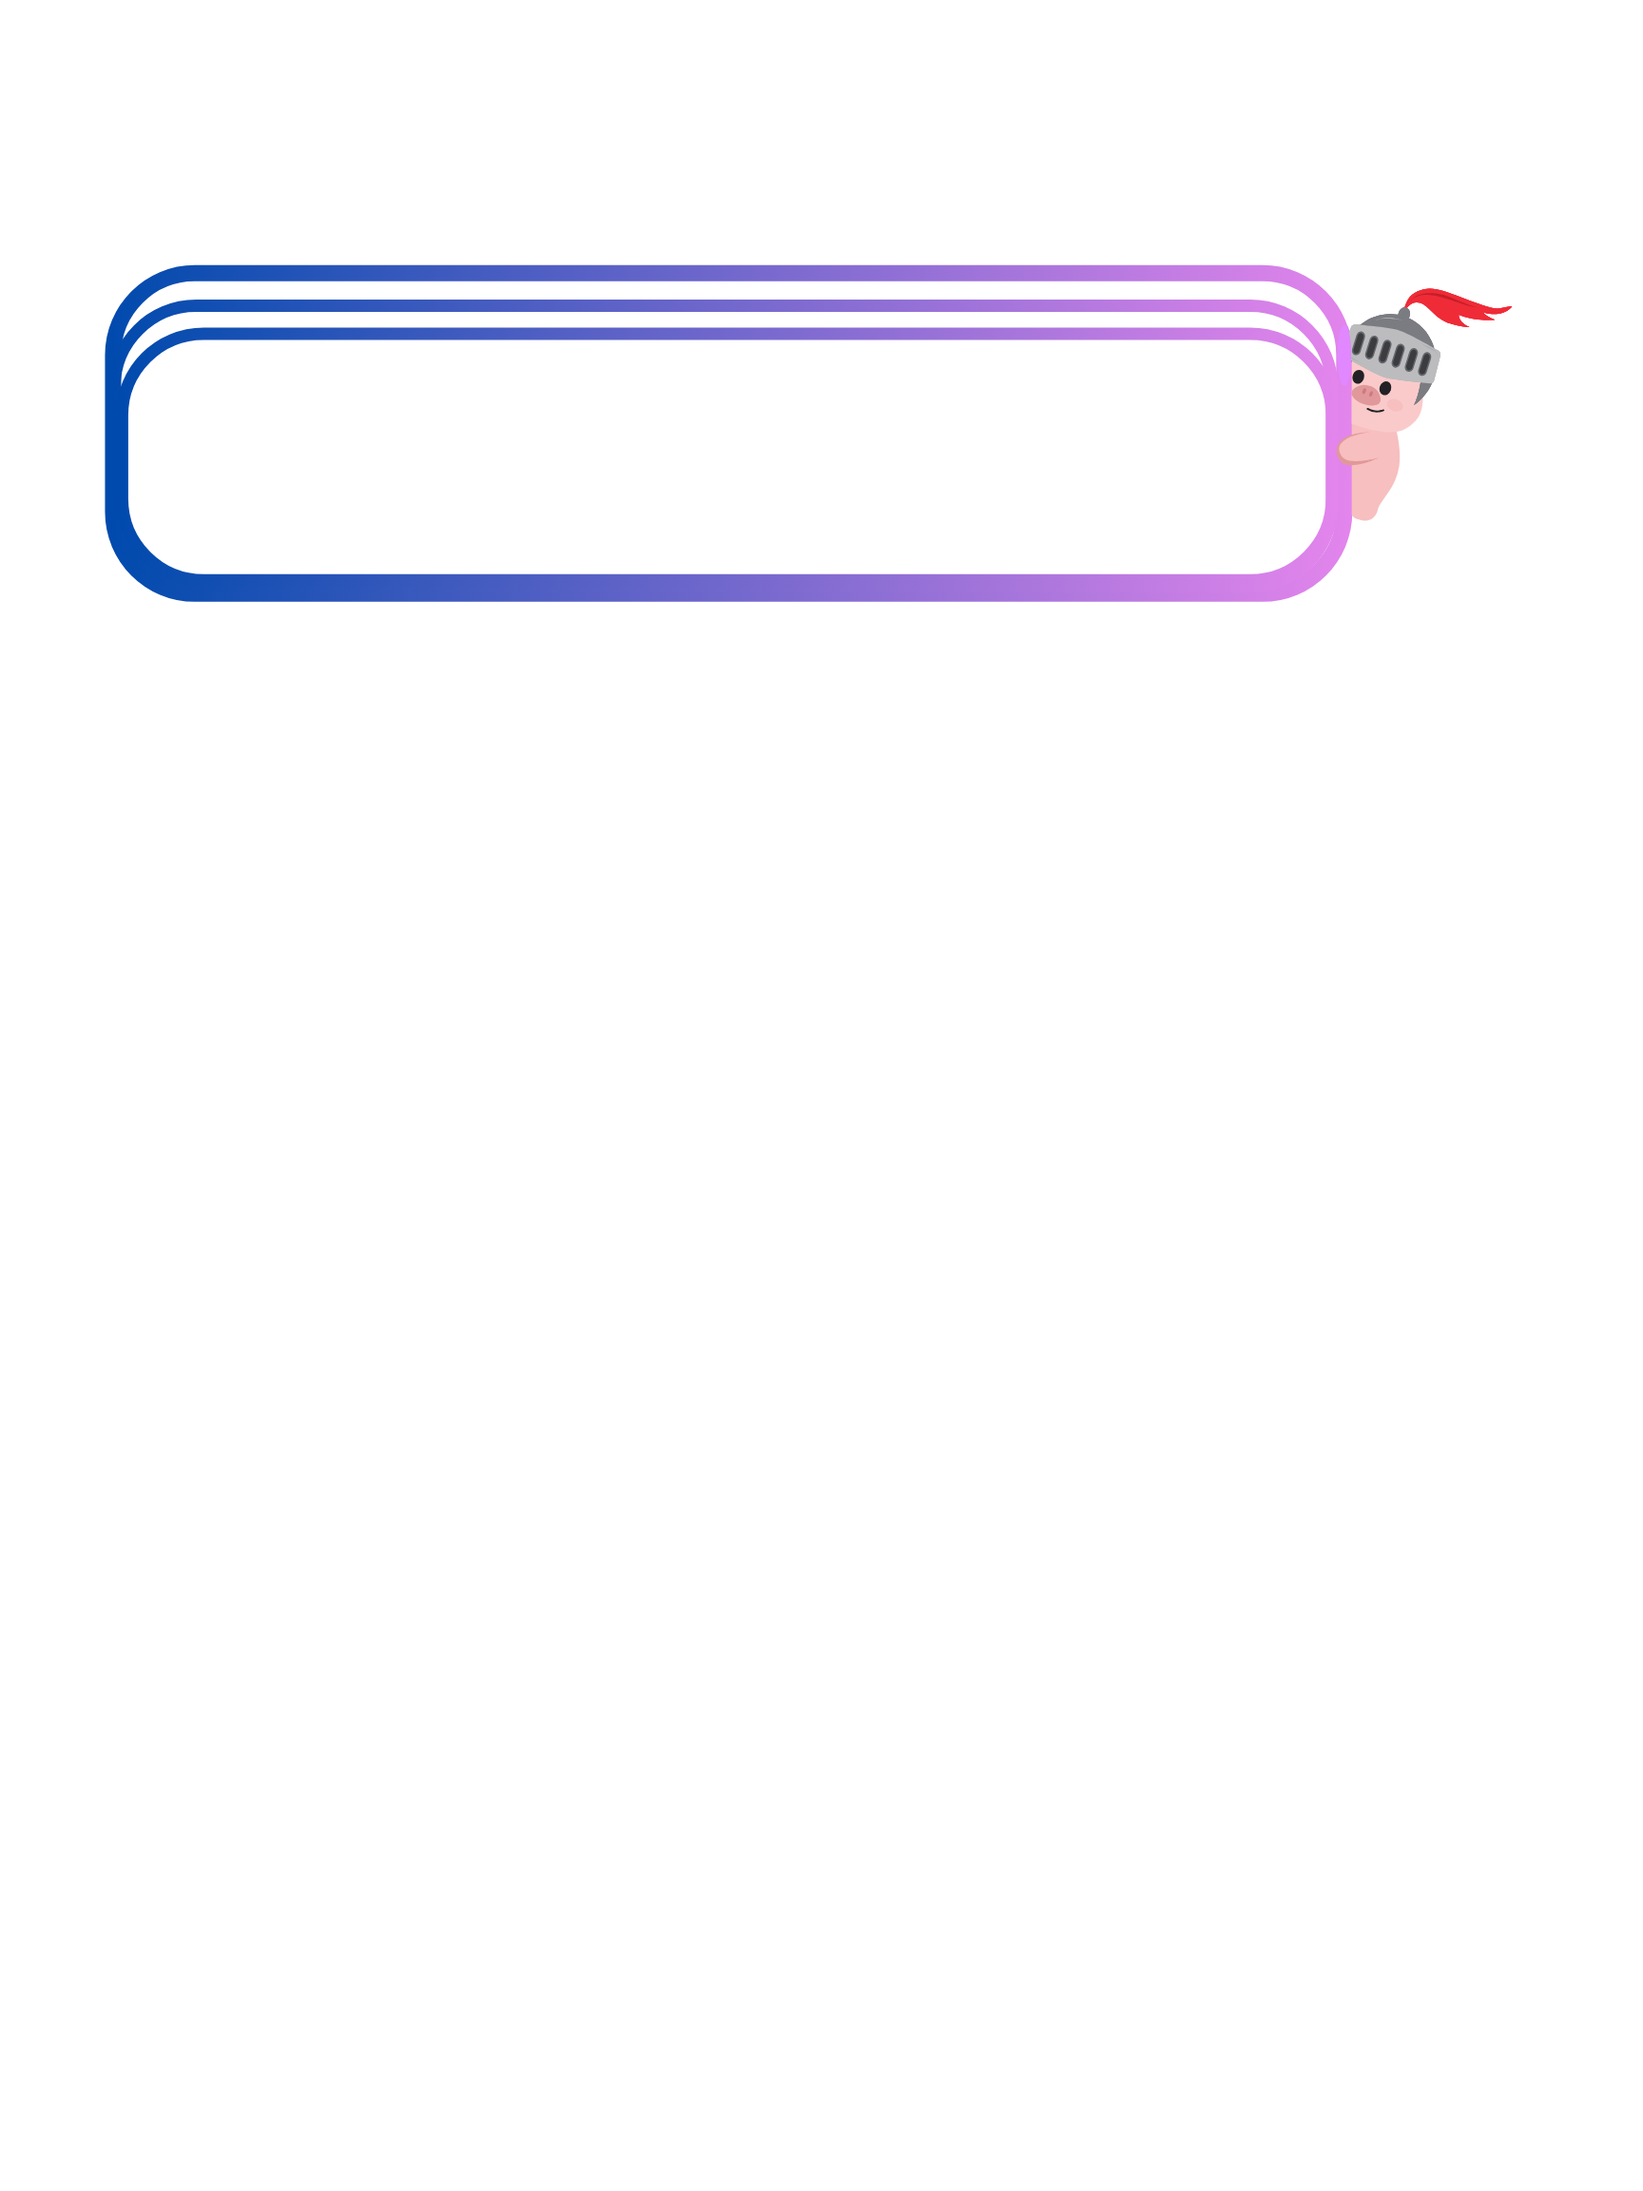
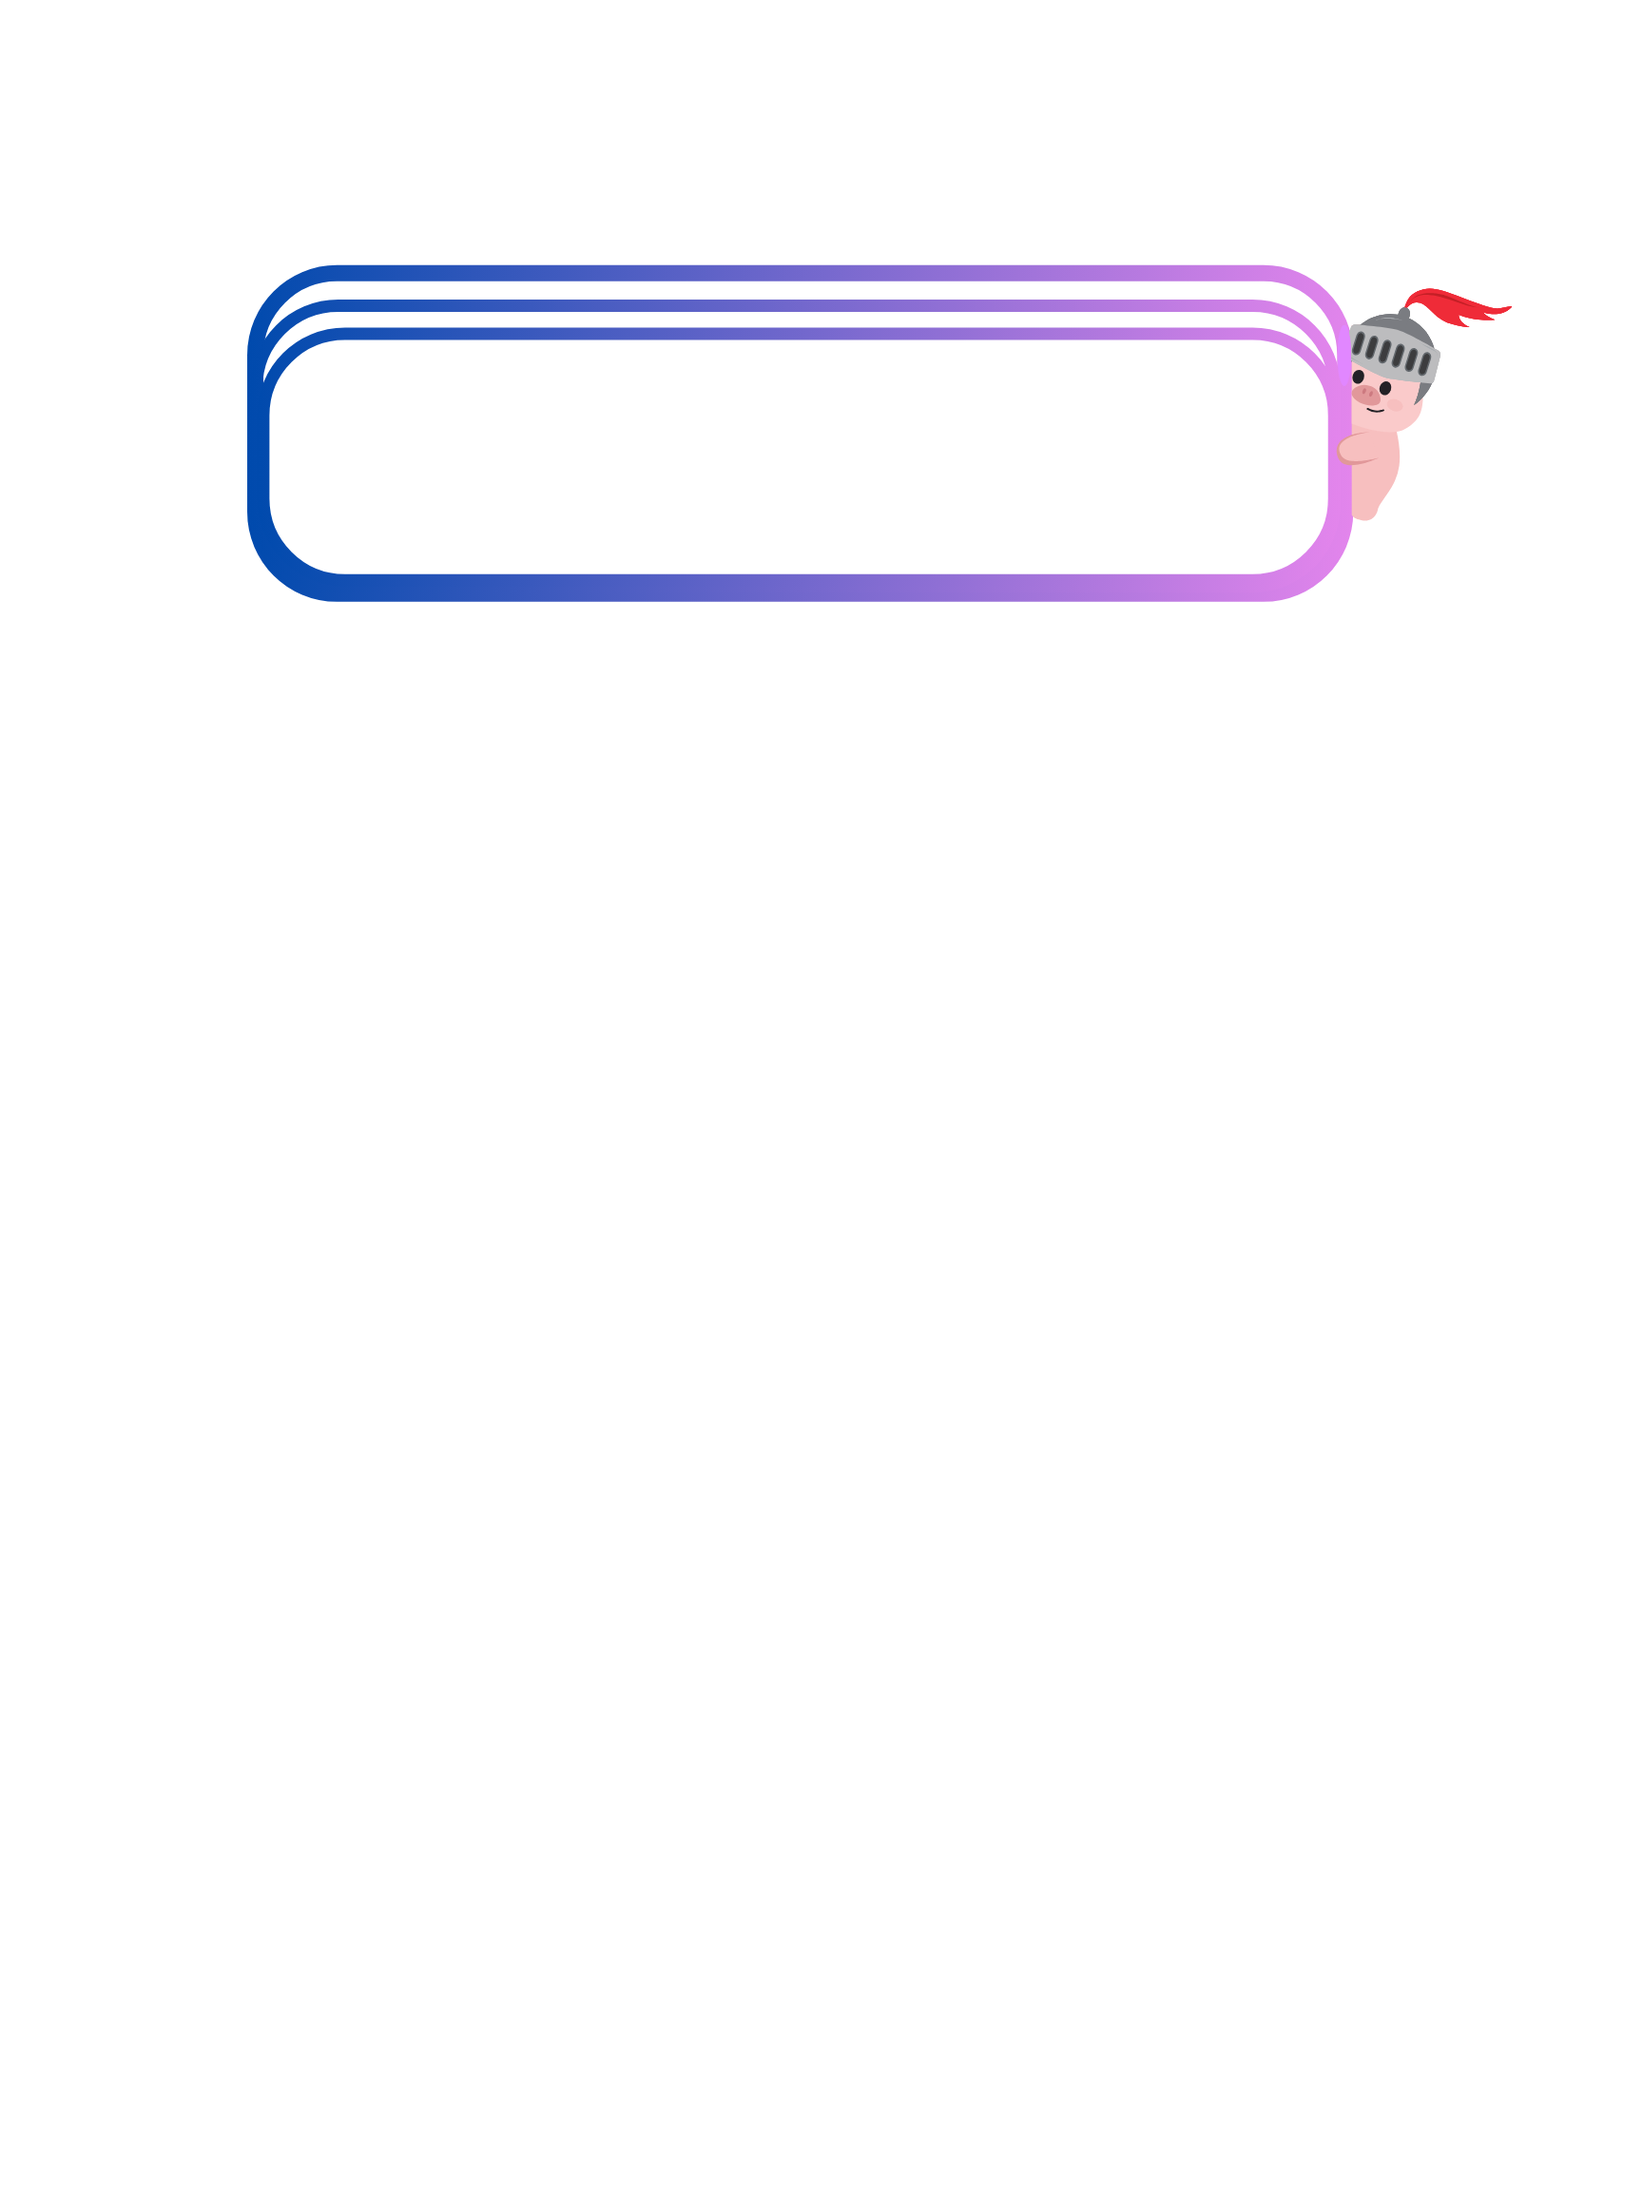
ui finalization

Changed region(s): [[0.0625, 0.0938, 0.2188, 0.2812], [0.7812, 0.125, 0.8125, 0.1875]]

diff --git a/src/components/countdown.js b/src/components/countdown.js
@@ -1,68 +1,51 @@
 import React, { useState, useEffect } from 'react';
-import './countdown.css'
-
+import './countdown.css';
 
 export function Countdown({ targetDate }) {
-  const [timeLeft, setTimeLeft] = useState(CalculateTimeLeft());
+  const [timeLeft, setTimeLeft] = useState(CalculateTimeLeft(targetDate));
 
-  function CalculateTimeLeft(td){
-    let difference = Date.parse(td) - Date.now()
-    let time
-    if (difference > 0){
-      difference /= 1000; //milliseconds to seconds
+  function CalculateTimeLeft(td) {
+    const difference = new Date(td) - new Date();
+    if (difference <= 0) return { days: 0, hours: 0, minutes: 0, seconds: 0 };
 
-      let days = Math.floor(difference / 86400);   difference -= days * 86400; 
-      let hours = Math.floor(difference / 3600);   difference -= hours * 3600; 
-      let minutes = Math.floor(difference / 60);   difference -= minutes * 60; 
-      let seconds = Math.floor(difference);
+    const days = Math.floor(difference / (1000 * 60 * 60 * 24));
+    const hours = Math.floor((difference / (1000 * 60 * 60)) % 24);
+    const minutes = Math.floor((difference / 1000 / 60) % 60);
+    const seconds = Math.floor((difference / 1000) % 60);
 
-      time = {
-        days: days,
-        hours: hours,
-        minutes: minutes,
-        seconds: seconds
-      };
-
-    }
-    else{
-      time = {
-        days: 0,
-        hours: 0,
-        minutes: 0,
-        seconds: 0
-      }
-    }
-
-    return time;
+    return { days, hours, minutes, seconds };
   }
-  
+
   useEffect(() => {
     const timer = setInterval(() => {
       setTimeLeft(CalculateTimeLeft(targetDate));
     }, 1000);
-
     return () => clearInterval(timer);
   }, [targetDate]);
 
-
+  var timeUnits = {
+    days: 365,
+    hours: 24,
+    minutes: 60,
+    seconds: 60
+  }
   return (
     <div className="countdown">
-      <div className="countdown-item">
-        <span>{timeLeft.days}</span>
-        <p>Days</p>
-      </div>
-      <div className="countdown-item">
-        <span>{timeLeft.hours}</span>
-        <p>Hours</p>
-      </div>
-      <div className="countdown-item">
-        <span>{timeLeft.minutes}</span>
-        <p>Minutes</p>
-      </div>
-      <div className="countdown-item">
-        <span>{timeLeft.seconds}</span>
-        <p>Seconds</p>
-      </div>
+      {Object.entries(timeLeft).map(([unit, value]) => {
+        const element = document.querySelector(`.${unit} .number`);
+        const degree = 360 / timeUnits[unit] * (timeUnits[unit] - timeLeft[unit]);
+        if (element) {
+          element.style.setProperty("--degree", `${degree}deg`)
+        }
+  
+        return (
+          <div key={unit} className={`part ${unit}`}>
+            <div className="number">{value}</div>
+            <div className="text">{unit}</div>
+          </div>
+        );
+      })}
     </div>
   );
+  
 }

diff --git a/src/components/countdown.css b/src/components/countdown.css
@@ -1,24 +1,55 @@
+@import url('https://fonts.googleapis.com/css2?family=Open+Sans:ital,wght@0,300..800;1,300..800&family=Roboto+Slab:wght@100..900&display=swap');
 .countdown {
-    display: flex;
-    gap: 10px;
-    justify-content: center;
-    align-items: center;
-    font-family: Arial, sans-serif;
-  }
-  
-  .countdown-item {
-    text-align: center;
-    padding: 10px;
-    border-radius: 8px;
-    background-color: #333;
-    color: #fff;
-    width: 70px;
-    
-  }
-  
-  .countdown-item span {
-    font-size: 2em;
-    font-weight: bold;
-    color: white;
-  }
- 
+  display: flex;
+  gap: 4rem;
+  justify-content: center;
+  align-items: center;
+  font-family: Open Sans, serif;
+  font-weight: 500; 
+  padding-bottom: 0%;
+}
+
+.part {
+  position: relative;
+  top: 20px;
+  display: flex;
+  flex-direction: column;
+  align-items: center;
+  color: rgb(255, 255, 255);
+
+}
+
+.number {
+  font-size: 1.5rem;
+  aspect-ratio: 1;
+  width: 70px;
+  height: 70px; 
+  display: flex;
+  justify-content: center;
+  align-items: center;
+  border-radius: 50%;
+  position: relative;
+  background-color: transparent; 
+  z-index: 2; 
+}
+.number::after {
+  content: ""; 
+  position: absolute;
+  top: 0;
+  left: 0;
+  width: 100%;
+  height: 100%;
+  border-radius: 50%;
+  background-image: conic-gradient(rgb(238, 175, 238) var(--degree), transparent calc(var(--degree) + 0.1deg));
+  background-clip: border-box;
+  --mask-image: radial-gradient(circle, transparent 64.5%, black 68%);
+  -webkit-mask-image: var(--mask-image);
+  mask-image: var(--mask-image);
+  z-index: 1; 
+}
+
+.text {
+  font-size: 0.8rem;
+  opacity: 0.75;
+  z-index: 2;
+}

diff --git a/src/pages/Home.css b/src/pages/Home.css
@@ -1,33 +1,35 @@
-/* Home.css */
 .black-background {
     background-color: black;
-    width: 100%;
-    height: 100vh; 
+    min-height: 100vh;
+    min-width: 100vh;
     display: flex;
     justify-content: center;
     align-items: center;
+    overflow: hidden;
   }
   
   .countdown-container {
     position: relative;
-    width: 60%; 
-    height: auto;
+    width: 100%; 
+    max-width: 1000px; 
+    
+    aspect-ratio: 16 / 9;
+    transform: scale(1.2);
   }
   
   .countdown-image {
+    position: absolute;
     width: 100%;
-    height: auto; 
-    object-fit: cover; 
+    height: 200%; 
   }
   
   .countdown-overlay {
-    position: absolute;
-    top: 50%;
-    left: 50%; 
-    transform: translate(-50%, -50%); 
-    color: white; 
-    font-size: 2rem; 
-    text-shadow: 2px 2px 5px rgba(0, 0, 0, 0.7); 
-    z-index: 10; 
+    position: relative;
+    z-index:1;
+    top:30%;
+    right:1.5%;
   }
+  
+  
+
   

diff --git a/src/pages/Home.js b/src/pages/Home.js
@@ -8,11 +8,13 @@ export default function Home() {
 
   return (
     <div className="black-background">
-      <div className="countdown-container">
+      <div className="countdown-container" >
         <img src="/sources/timerbackground.png" alt="Countdown" className="countdown-image" />
-        <div className="countdown-overlay">
-          <Countdown targetDate={td} />
-        </div>
+          <a href="https://www.henhackshackathon.com/" style={{ textDecoration: 'none'}}>
+          <div className="countdown-overlay" >
+            <Countdown targetDate={td} />
+          </div>
+        </a>
       </div>
     </div>
   );
